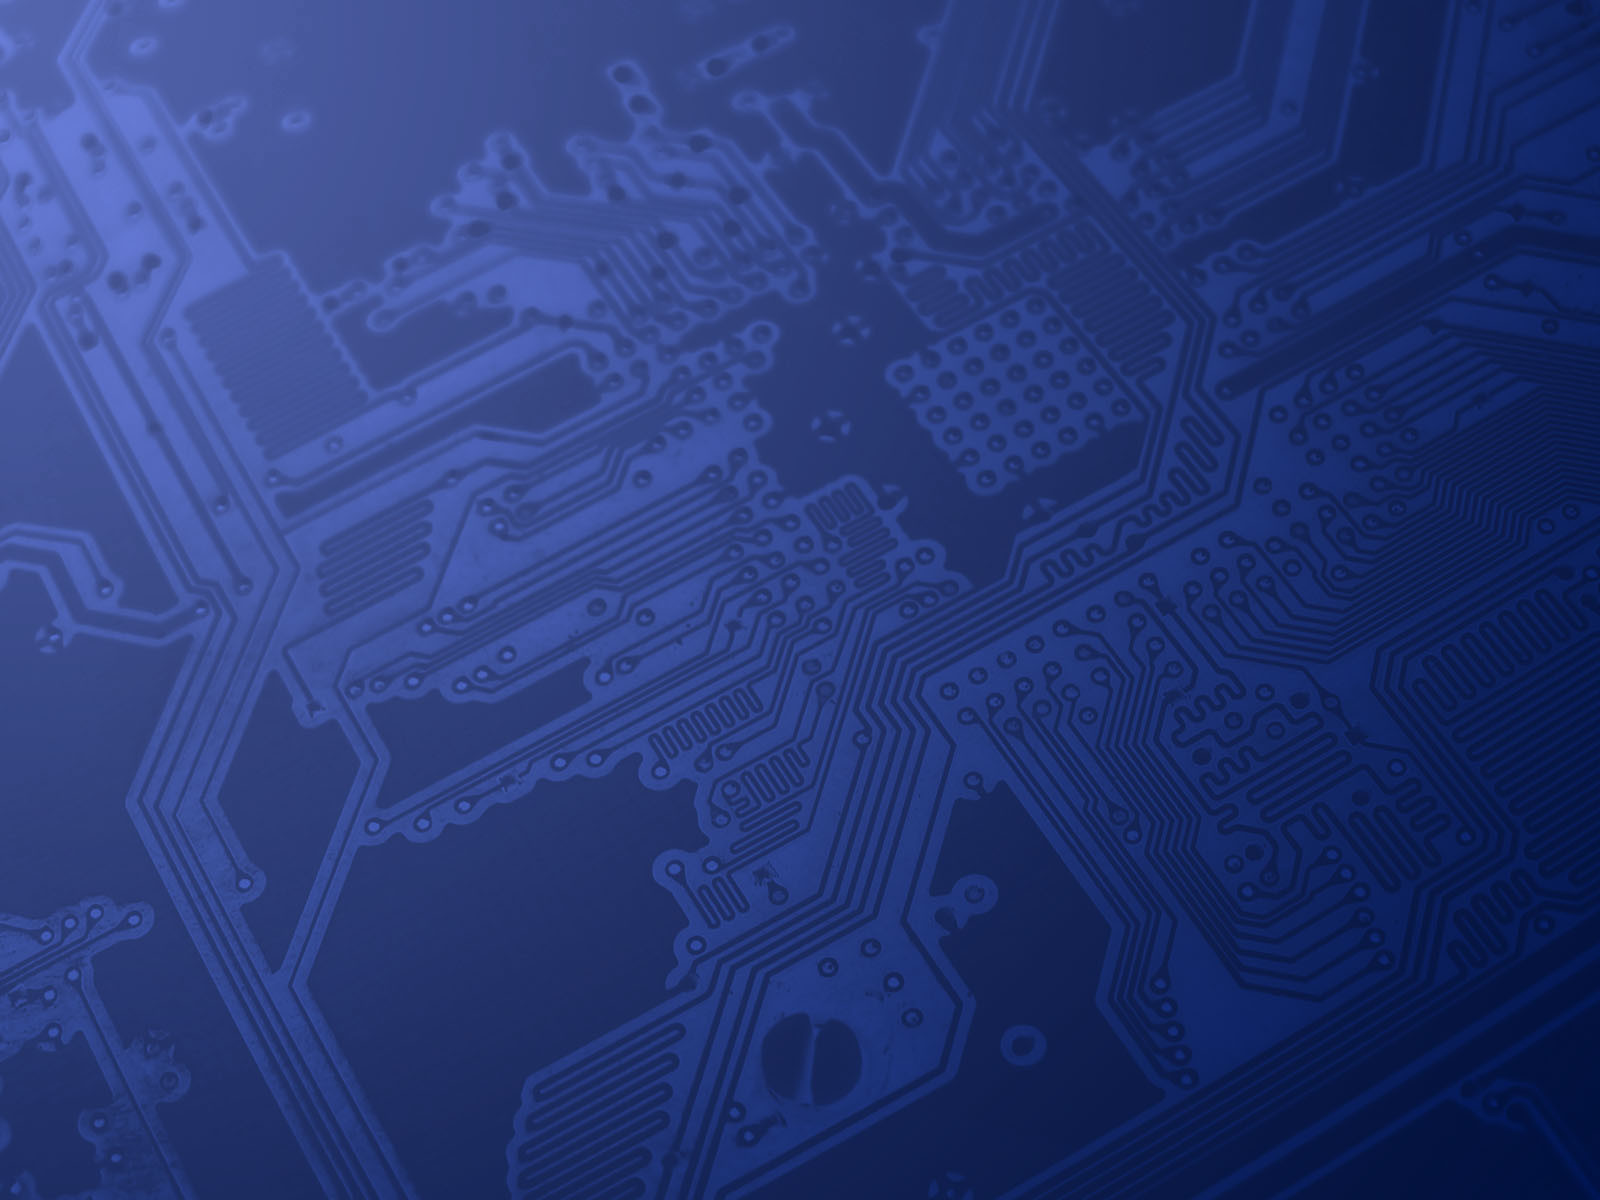
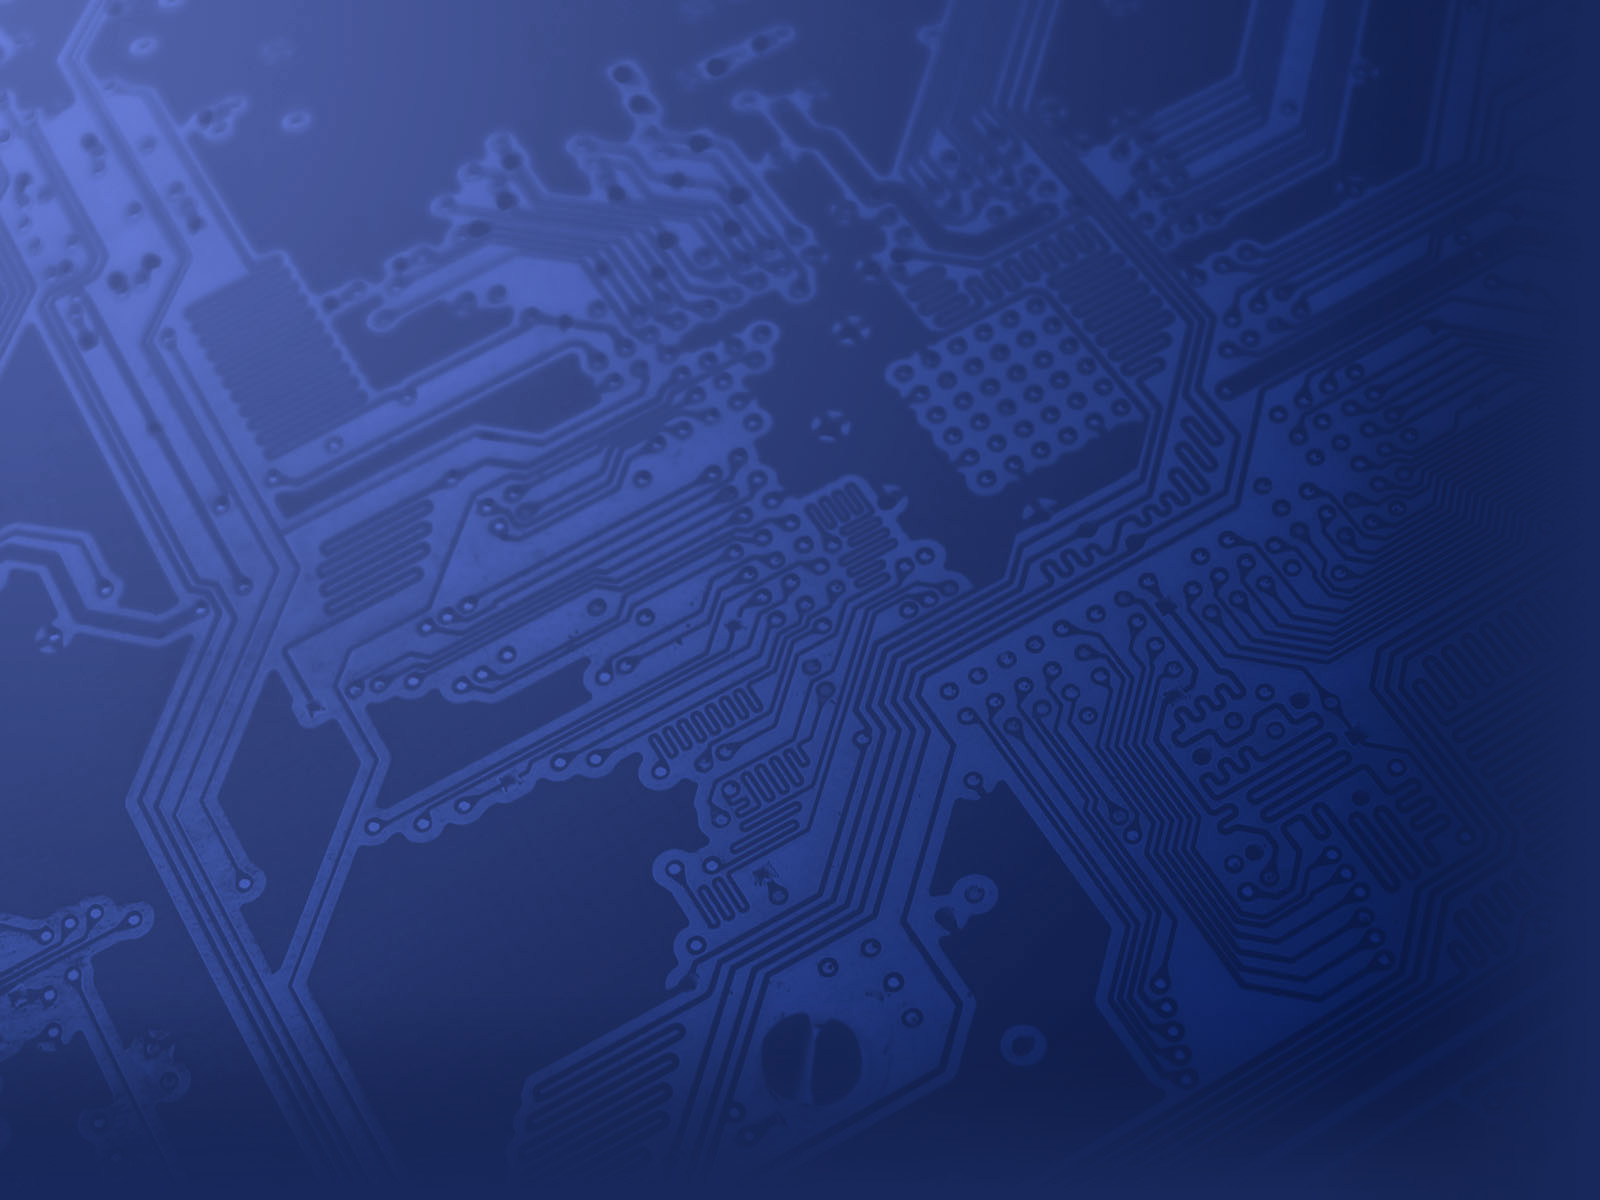
it's the little things, more fluid bg

diff --git a/style.css b/style.css
@@ -6,7 +6,7 @@
 }
 
 body {
-  background: #30407b url('/images/bg.jpg') no-repeat right top;
+  background: #18285c url('/images/bg.jpg') no-repeat left top;
 }
 
 a {
